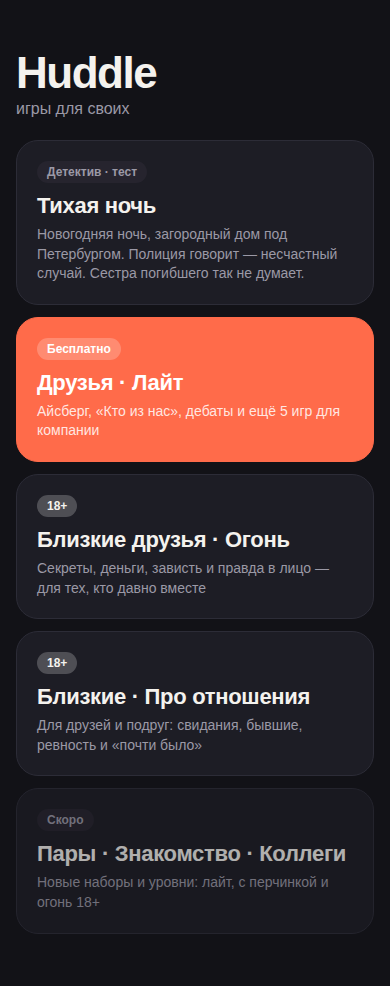
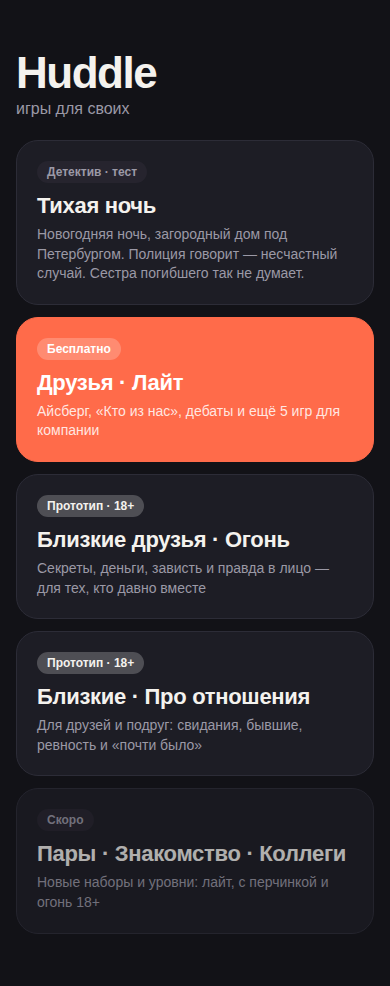
Наборы 18+: подпись «Прототип», убрано задание «Линия»
Claude-Session: https://claude.ai/code/session_01UBj5tmuMB4ZmXX7ocEKdhE

Changed region(s): [[0.1231, 0.6389, 0.3692, 0.6998], [0.1231, 0.4868, 0.3692, 0.5477]]

diff --git a/content/friends-hot.js b/content/friends-hot.js
@@ -3,7 +3,7 @@ window.HUDDLE_SETS = window.HUDDLE_SETS || {};
 window.HUDDLE_SETS["friends-hot"] = {
   id: "friends-hot",
   title: "Близкие друзья · Огонь",
-  subtitle: "8 игр для тех, кто давно вместе. Секреты, деньги, зависть и то, что обычно не говорят в лицо — 18+.",
+  subtitle: "Прототип · 8 игр для тех, кто давно вместе. Секреты, деньги, зависть и то, что обычно не говорят в лицо — 18+.",
   free: false,
   intro: ["Только для своих и только 18+", "Играйте с одного телефона — передавайте его по кругу", "Начните с «Айсберга», дальше чередуйте быстрые игры", "Пропустить можно любую карточку. Что прозвучало здесь — остаётся здесь", "Хватит на 1–2 часа"],
   games: [
@@ -211,7 +211,6 @@ window.HUDDLE_SETS["friends-hot"] = {
         { text: "Каждый анонимно пишет самый неудобный вопрос для всей компании. Приложение перемешивает их и выдаёт по одному — отвечают все.", flow: "anon" },
         { text: "Приложение тайно выдаёт каждому, кого из компании изобразить. Покажите без слов, как этот человек выглядит, когда врёт, — остальные угадывают, кто есть кто.", flow: "mime" },
         { text: "Суд: выберите обвиняемого и его главное «преступление» против дружбы. Прокурор, адвокат и присяжные — 5 минут. Приговор исполняется сегодня." },
-        { text: "Без слов выстройтесь в линию: от того, кто лучше всех хранит секреты, до того, кто хуже всех. Потом каждый объясняет, почему встал(а) именно туда." },
         { text: "Каждый открывает переписку с кем-то из присутствующих и листает на год назад. Зачитайте по одному сообщению — угадайте, о чём тогда шла речь." },
         { text: "Компания придумывает тебе сторис. Выкладываешь её на 10 минут в «Близкие друзья» — или выполняешь любое задание от компании." },
         { text: "Правда в лицо: по кругу каждый говорит соседу справа то, что давно хотел(а) сказать. Можно хорошее, можно нет — но честно." }

diff --git a/app.js b/app.js
@@ -201,9 +201,9 @@
     if (hasCase) h('<button class="link" data-reset-case style="margin:-4px auto 14px">Сбросить прогресс «Тихой ночи»</button>');
     h('<button class="tile accent" data-set="friends-lite"><span class="tag">Бесплатно</span>' +
       '<h2>Друзья · Лайт</h2><p>Айсберг, «Кто из нас», дебаты и ещё 5 игр для компании</p></button>');
-    h('<button class="tile" data-set="friends-hot"><span class="tag">18+</span>' +
+    h('<button class="tile" data-set="friends-hot"><span class="tag">Прототип · 18+</span>' +
       '<h2>Близкие друзья · Огонь</h2><p>Секреты, деньги, зависть и правда в лицо — для тех, кто давно вместе</p></button>');
-    h('<button class="tile" data-set="love-hot"><span class="tag">18+</span>' +
+    h('<button class="tile" data-set="love-hot"><span class="tag">Прототип · 18+</span>' +
       '<h2>Близкие · Про отношения</h2><p>Для друзей и подруг: свидания, бывшие, ревность и «почти было»</p></button>');
     h('<div class="tile soon"><span class="tag dim">Скоро</span><h2>Пары · Знакомство · Коллеги</h2>' +
       "<p>Новые наборы и уровни: лайт, с перчинкой и огонь 18+</p></div>");

diff --git a/content/love-hot.js b/content/love-hot.js
@@ -3,7 +3,7 @@ window.HUDDLE_SETS = window.HUDDLE_SETS || {};
 window.HUDDLE_SETS["love-hot"] = {
   id: "love-hot",
   title: "Близкие · Про отношения",
-  subtitle: "8 игр для близких друзей и подруг — обсуждаем отношения: свидания, бывшие, ревность, «почти было». 18+.",
+  subtitle: "Прототип · 8 игр для близких друзей и подруг — обсуждаем отношения: свидания, бывшие, ревность, «почти было». 18+.",
   free: false,
   intro: ["Только для своих и только 18+", "Играйте с одного телефона — передавайте его по кругу", "Начните с «Айсберга», дальше чередуйте быстрые игры", "Пропустить можно любую карточку. Что прозвучало здесь — остаётся здесь", "Хватит на 1–2 часа"],
   games: [

diff --git a/index.html b/index.html
@@ -142,7 +142,7 @@
   <main id="app"></main>
   <script>
     // номер сборки: меняется при каждом обновлении, чтобы Telegram не показывал старые файлы
-    window.HUDDLE_BUILD = "20261008-3";
+    window.HUDDLE_BUILD = "20261008-4";
     document.write('<script src="content/friends-lite.js?v=' + HUDDLE_BUILD + '"><\/script>');
     document.write('<script src="content/friends-hot.js?v=' + HUDDLE_BUILD + '"><\/script>');
     document.write('<script src="content/love-hot.js?v=' + HUDDLE_BUILD + '"><\/script>');
